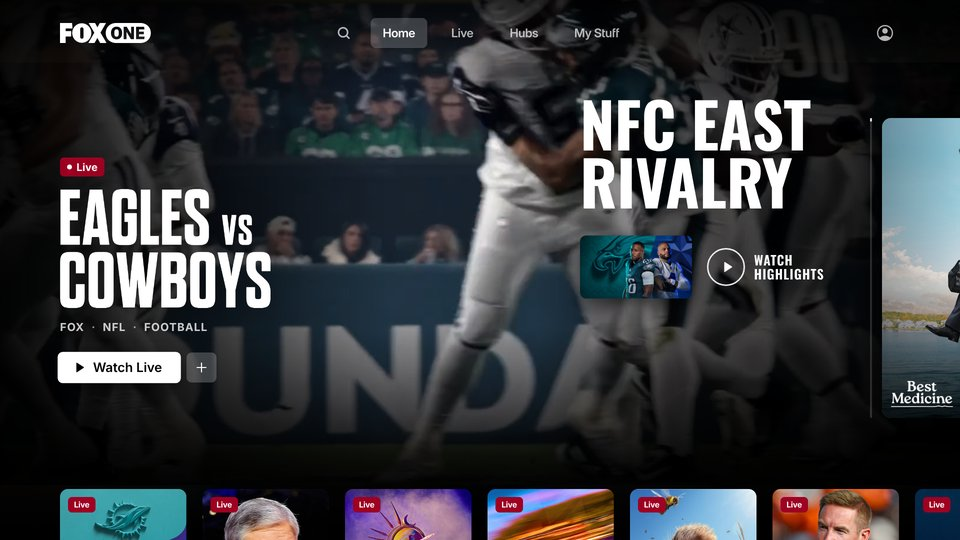
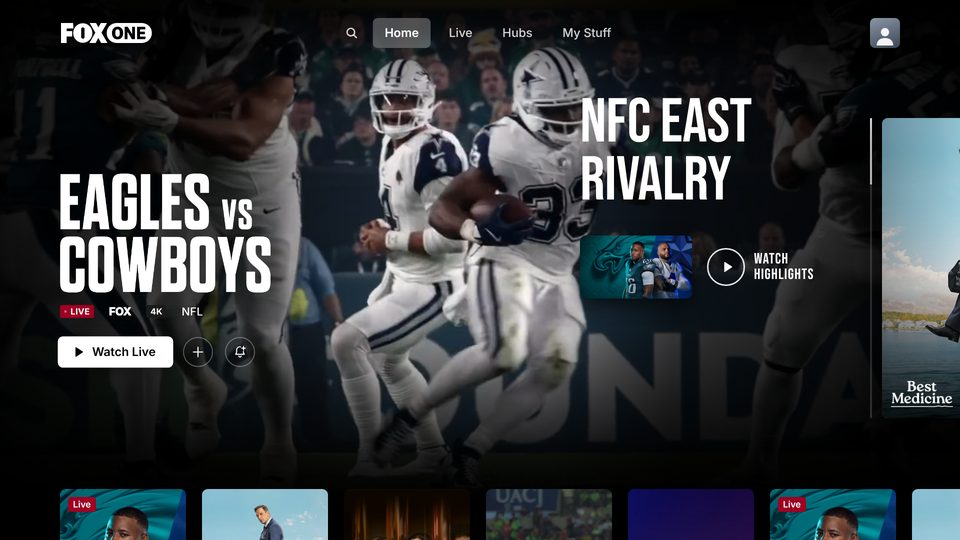
C8: use the shared FOX One components and D-pad focus model
Lockup uses HeroKit.ui (title, meta row, CTAs); the shared focus model drives
Watch / + / bell / trailer, pages past the trailer, and takes over nav and rail focus.

Claude-Session: https://claude.ai/code/session_01FWkKVt7uaQAGvCvKhrAVNM

diff --git a/c8-editorial-split.html b/c8-editorial-split.html
@@ -12,11 +12,9 @@
      a huge condensed headline sits top-right with an inline trailer, and the next title peeks in from the right edge. */
   :root { --cond: "Oswald", "Bebas Neue", "Arial Narrow", Impact, sans-serif; }
   .stage { background: #000; }
-  .stage .page-nav { mix-blend-mode: screen; }   /* nav strip's black drops out over the art */
-  .stage .page-rail { z-index: 40; }
 
   .slides { position: absolute; inset: 0; z-index: 2; transition: opacity .35s var(--ease-std); }
-  .stage.z-rail .slides { opacity: .45; }
+  .stage.at-rail .slides { opacity: .45; }
   .slide { position: absolute; inset: 0; }
 
   /* Art opens like a curtain from the center line */
@@ -42,15 +40,13 @@
     display: flex; flex-direction: column; justify-content: center; align-items: flex-start; }
   .lock > * + * { margin-top: 24px; }
   .lock .logo img { max-width: 540px; max-height: 240px; }
-  .lock .meta { gap: 0; font-size: 22px; letter-spacing: .06em; color: var(--ink-2); }
-  .lock .meta span + span::before { content: "·"; margin: 0 14px; color: var(--ink-3); }
   .lock .ctas { margin-top: 38px !important; }
   .rise > * { opacity: 0; transform: translateY(24px); }
   .slide.is-in .rise > * { animation: rise .8s var(--ease-out) both; animation-delay: calc(.55s + var(--i) * 80ms); }
 
   /* Right column: condensed headline + inline trailer */
   .edit { position: absolute; z-index: 5; left: 1160px; top: 190px; width: 520px; }
-  .head { font: 700 124px/.9 var(--cond); text-transform: uppercase; letter-spacing: -.005em; }
+  .head { font: 400 124px/.9 var(--f-display); text-transform: uppercase; letter-spacing: -.005em; }
   .head .ln { display: block; overflow: hidden; padding: 4px 0; margin: -4px 0; }
   .head .ln > span { display: inline-block; white-space: nowrap; transform: translateY(110%);
     transition: transform 1s var(--ease-out); transition-delay: calc(.4s + var(--k) * 90ms); }
@@ -59,20 +55,20 @@
   .trail { display: flex; align-items: center; gap: 30px; margin-top: 54px; opacity: 0; transform: translateY(20px);
     transition: opacity .7s var(--ease-out) .85s, transform .7s var(--ease-out) .85s; }
   .slide.is-in .trail { opacity: 1; transform: none; }
-  .tthumb { position: relative; width: 224px; height: 126px; border-radius: 12px; overflow: hidden; flex: 0 0 auto;
+  .tthumb { position: relative; width: 224px; height: 126px; border-radius: var(--r-tile); overflow: hidden; flex: 0 0 auto;
     box-shadow: 0 14px 34px rgba(0,0,0,.55); outline: 4px solid transparent; outline-offset: 5px; transition: outline-color .2s, transform .25s var(--ease-std); }
   .tthumb img { width: 100%; height: 100%; object-fit: cover; }
   .tplay { display: flex; align-items: center; gap: 18px; }
   .ring { width: 76px; height: 76px; border-radius: 50%; border: 3px solid rgba(255,255,255,.9); display: grid; place-items: center;
     transition: background .2s, transform .25s var(--ease-std); }
   .ring svg { width: 26px; height: 26px; fill: #fff; margin-left: 5px; transition: fill .2s; }
-  .tlabel { font: 600 26px/1.1 var(--cond); text-transform: uppercase; letter-spacing: .05em; }
+  .tlabel { font: 400 30px/1.05 var(--f-display); text-transform: uppercase; letter-spacing: .05em; }
   .trail.is-focused .ring { background: #fff; transform: scale(1.1); }
   .trail.is-focused .ring svg { fill: #000; }
   .trail.is-focused .tthumb { outline-color: #fff; transform: scale(1.04); }
 
   /* Right edge: a peek of the next title, with the dwell timer running down its left edge */
-  .peek { position: absolute; z-index: 6; left: 1764px; top: 236px; width: 380px; height: 600px; border-radius: 18px; overflow: hidden;
+  .peek { position: absolute; z-index: 6; left: 1764px; top: 236px; width: 380px; height: 600px; border-radius: var(--r-tile); overflow: hidden;
     background: #111; box-shadow: -20px 0 60px rgba(0,0,0,.6); outline: 4px solid transparent; outline-offset: 5px;
     transform: translateX(140px); opacity: 0; transition: transform .9s var(--ease-out), opacity .6s var(--ease-std), outline-color .2s; }
   .peek.is-in { transform: none; opacity: 1; transition-delay: .5s, .5s, 0s; }
@@ -96,7 +92,6 @@
 <div class="viewport"><div class="stage" id="stage">
   <div class="slides" id="slides"></div>
   <div class="ptimer" id="ptimer"><i></i></div>
-  <div class="fring" id="fring"></div>
 </div></div>
 
 <script src="shared/data.js"></script>
@@ -105,8 +100,9 @@
 <script>
 const K = HeroKit.init({
   title: "C8 · Editorial Split",
-  notes: "An editorial split. The art opens from the center line like a curtain, the lockup holds the left column, and a huge condensed headline sits top-right with an inline trailer. A peek of the next title sits on the right edge, with the dwell timer running down beside it. Focus starts on the primary CTA; Right goes to + then the trailer; Right again brings the peeked title into the hero with focus on its primary CTA. The peek never takes focus. Down goes to the rail, Up to the nav.",
-  extraKeys: [["↑ ↓", "Nav / hero / rail"], ["Enter", "Select focused item"]],
+  notes: "An editorial split. The art opens from the center line like a curtain, the lockup holds the left column, and a huge condensed headline sits top-right with an inline trailer. A peek of the next title sits on the right edge, with the dwell timer running down beside it. Focus starts on the primary CTA; Right goes to +, the bell, then the trailer; Right again brings the peeked title into the hero with focus on its primary CTA. The peek never takes focus. Down goes to the rail, Up to the nav.",
+  // Hero focus row = Watch · + · bell · inline trailer; the shared D-pad model pages past the trailer
+  heroItems: () => (cur ? [...cur.querySelectorAll(".ctas .btn, .trail")] : []),
 });
 
 const D = K.data;
@@ -117,8 +113,7 @@ const HEAD = {
   "fc-juarez": ["Bravos", "de Juárez"],
   "fox-soul": ["Black", "Culture", "Always On"],
 };
-const NAV = [[656, 62], [740, 113], [893, 78], [1006, 90], [1128, 128], [1736, 62]]; // search, home, live, hubs, my stuff, profile
-const slidesEl = document.getElementById("slides"), ring = document.getElementById("fring");
+const slidesEl = document.getElementById("slides");
 
 const timer = document.getElementById("ptimer");
 let peek = null;
@@ -133,11 +128,6 @@ function showPeek(i) {
   if (old) { old.classList.remove("is-focused"); old.classList.add("is-out"); setTimeout(() => old.remove(), 1000); }
 }
 
-function badge(it) {
-  if (it.type === "live") return `<span class="badge badge--live"><span class="dot"></span>Live</span>`;
-  if (it.status && /new/i.test(it.status.badge)) return `<span class="badge badge--new">${it.status.badge}</span>`;
-  return "";
-}
 function bgMedia(it) {
   const a = it.art;
   return a.kind === "video"
@@ -145,13 +135,9 @@ function bgMedia(it) {
     : `<img src="${a.src}" alt="">`;
 }
 function slideHTML(it) {
-  const meta = it.meta.filter((m) => !/^(live|replay)$/i.test(m)).slice(0, 3);
   const thumb = it.art.still || it.art.poster || it.art.src;
-  const lockParts = [badge(it),
-    `<div class="logo"><img src="${it.logo}" alt="${it.logoAlt || ""}" draggable="false"></div>`,
-    `<div class="meta">${meta.map((m) => `<span>${m}</span>`).join("")}</div>`,
-    `<div class="ctas"><span class="btn" data-f="0">${K.ICONS[it.ctas[0].icon]}${it.ctas[0].label}</span><span class="btn btn--sq" data-f="1" title="My Stuff">${K.ICONS.plus}</span></div>`,
-  ].filter(Boolean).map((p, i) => p.replace(/^<(\w+) /, `<$1 style="--i:${i}" `));
+  const lockParts = [K.ui.title(it), K.ui.metaRow(it), K.ui.ctas(it)]
+    .map((p, i) => p.replace(/^<(\w+) /, `<$1 style="--i:${i}" `));
   return `
     <div class="bg" style="--fx:${(it.focusX ?? .5) * 100}%">${bgMedia(it)}<div class="shade"></div></div>
     <div class="seam"></div>
@@ -159,7 +145,7 @@ function slideHTML(it) {
       <div class="lock rise">${lockParts.join("")}</div>
       <div class="edit">
         <div class="head">${HEAD[it.id].map((l, k) => `<span class="ln"><span style="--k:${k}">${l}</span></span>`).join("")}</div>
-        <div class="trail" data-f="2">
+        <div class="trail">
           <div class="tthumb"><img src="${thumb}" alt=""></div>
           <div class="tplay"><span class="ring">${K.ICONS.play}</span><span class="tlabel">Watch<br>${it.type === "live" ? "Highlights" : "Trailer"}</span></div>
         </div>
@@ -173,38 +159,7 @@ function fitHead(el) {
   head.style.fontSize = Math.min(max, max * 520 / w) + "px";
 }
 
-/* ---------- Focus model: zone = nav | hero | rail ---------- */
-let zone = "hero", hf = 0, nf = 1, rf = 0, cur = null;
-function paintFocus() {
-  K.stage.classList.toggle("z-rail", zone === "rail");
-  if (cur) cur.querySelectorAll("[data-f]").forEach((el) => el.classList.toggle("is-focused", zone === "hero" && +el.dataset.f === hf));
-  let r = null;
-  if (zone === "nav") { const [x, w] = NAV[nf]; r = [x - 6, 30, w + 12, 72]; }
-  if (zone === "rail") r = [120 + rf * 284 - 8, 970, 268, 130];
-  ring.classList.toggle("on", !!r);
-  if (r) Object.assign(ring.style, { left: r[0] + "px", top: r[1] + "px", width: r[2] + "px", height: r[3] + "px" });
-}
-function press() {
-  const el = zone === "hero" && cur && cur.querySelector(`[data-f="${hf}"]`);
-  if (!el) return;
-  el.classList.remove("pressed"); void el.offsetWidth; el.classList.add("pressed");
-}
-
-K.onKey((e) => {
-  const k = e.key;
-  if (k === "ArrowUp") { if (zone === "rail") zone = "hero"; else if (zone === "hero") zone = "nav"; paintFocus(); return true; }
-  if (k === "ArrowDown") { if (zone === "nav") { zone = "hero"; hf = 0; } else if (zone === "hero") zone = "rail"; paintFocus(); return true; }
-  if (k === "ArrowRight" || k === "ArrowLeft") {
-    const d = k === "ArrowRight" ? 1 : -1;
-    if (zone === "nav") nf = Math.max(0, Math.min(NAV.length - 1, nf + d));
-    else if (zone === "rail") rf = Math.max(0, Math.min(5, rf + d));
-    else if (hf + d > 2) { K.rot.next(true); return true; }       // Right past the trailer → next title takes the hero, focus on its primary CTA
-    else if (hf + d < 0) { K.rot.prev(true); return true; }       // Left past the primary CTA → previous title
-    else { hf += d; K.rot.restartTimer(); }
-    paintFocus(); return true;
-  }
-  if (k === "Enter") { press(); return true; }
-});
+let cur = null;
 
 /* ---------- Slides ---------- */
 function show(i, prev, dir) {
@@ -213,10 +168,9 @@ function show(i, prev, dir) {
   el.className = "slide";
   el.innerHTML = slideHTML(D[i]);
   slidesEl.appendChild(el);
-  cur = el; hf = 0;
+  cur = el;
   fitHead(el);
   (document.fonts ? document.fonts.ready : Promise.resolve()).then(() => fitHead(el));
-  paintFocus();
   requestAnimationFrame(() => requestAnimationFrame(() => el.classList.add("is-in")));
   const v = el.querySelector("video"); if (v) v.play().catch(() => {});
   if (old) {

diff --git a/shared/stage.js b/shared/stage.js
@@ -203,6 +203,7 @@
     const tiles = () => [...stage.querySelectorAll(".rail-tiles .tile-p")];
     const visible = (el) => el.checkVisibility ? el.checkVisibility({ opacityProperty: true, visibilityProperty: true }) : !!el.offsetParent;
     function heroBtns() {
+      if (opts.heroItems) return opts.heroItems();   // concept-supplied focus row (e.g. CTAs + an inline trailer)
       const groups = [...stage.querySelectorAll(".ctas")].filter((g) => !g.closest(".page-rail") && visible(g) && !g.closest(".out, .is-prev, .is-out"));
       const g = groups[groups.length - 1];
       return g ? [...g.querySelectorAll(".btn")] : [];
@@ -216,7 +217,8 @@
       stage.classList.toggle("hero-focus", st.zone === "hero");
       if (st.zone === "hero" && mode === "ctas") {
         // Every rendered CTA row mirrors the focused index, so crossfading slides never flash the wrong state
-        stage.querySelectorAll(".ctas").forEach((g) => { const b = g.querySelectorAll(".btn"); const n = Math.min(st.cta, b.length - 1); if (b[n]) b[n].classList.add("is-focused"); });
+        if (opts.heroItems) { const b = opts.heroItems(); const n = Math.min(st.cta, b.length - 1); if (b[n]) b[n].classList.add("is-focused"); }
+        else stage.querySelectorAll(".ctas").forEach((g) => { const b = g.querySelectorAll(".btn"); const n = Math.min(st.cta, b.length - 1); if (b[n]) b[n].classList.add("is-focused"); });
       } else if (st.zone === "nav") { const n = navEls(); n[st.nav] && n[st.nav].classList.add("is-focused"); }
       else if (st.zone === "rail") {
         const t = tiles(); st.tile = Math.min(st.tile, t.length - 1); t[st.tile] && t[st.tile].classList.add("is-focused");
